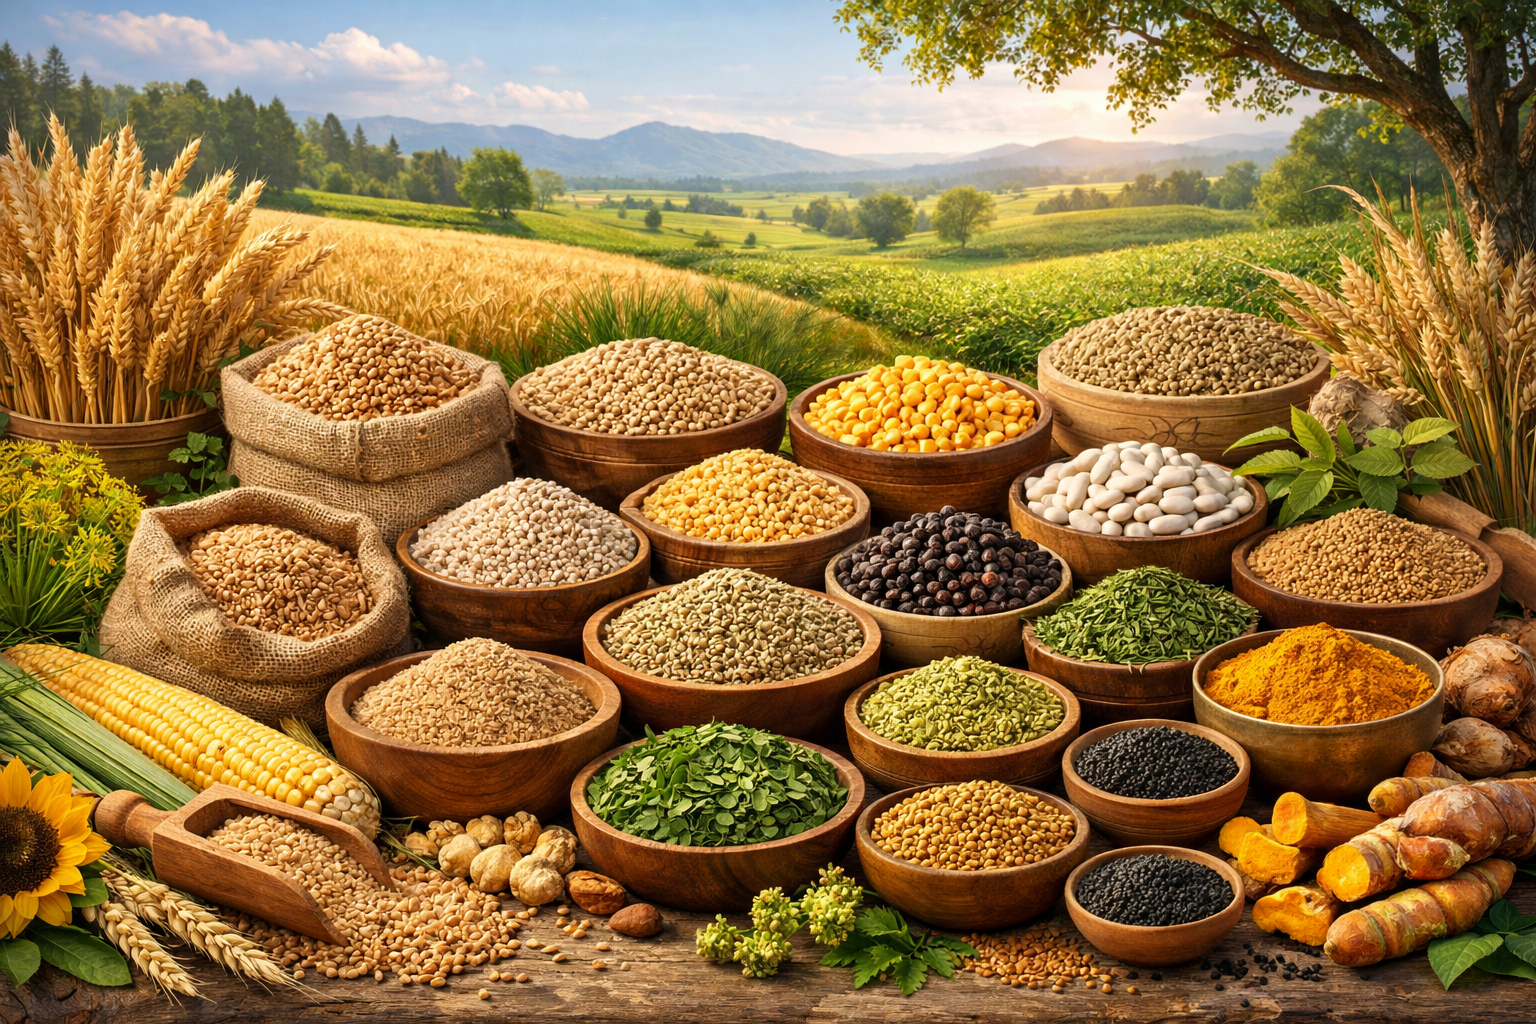
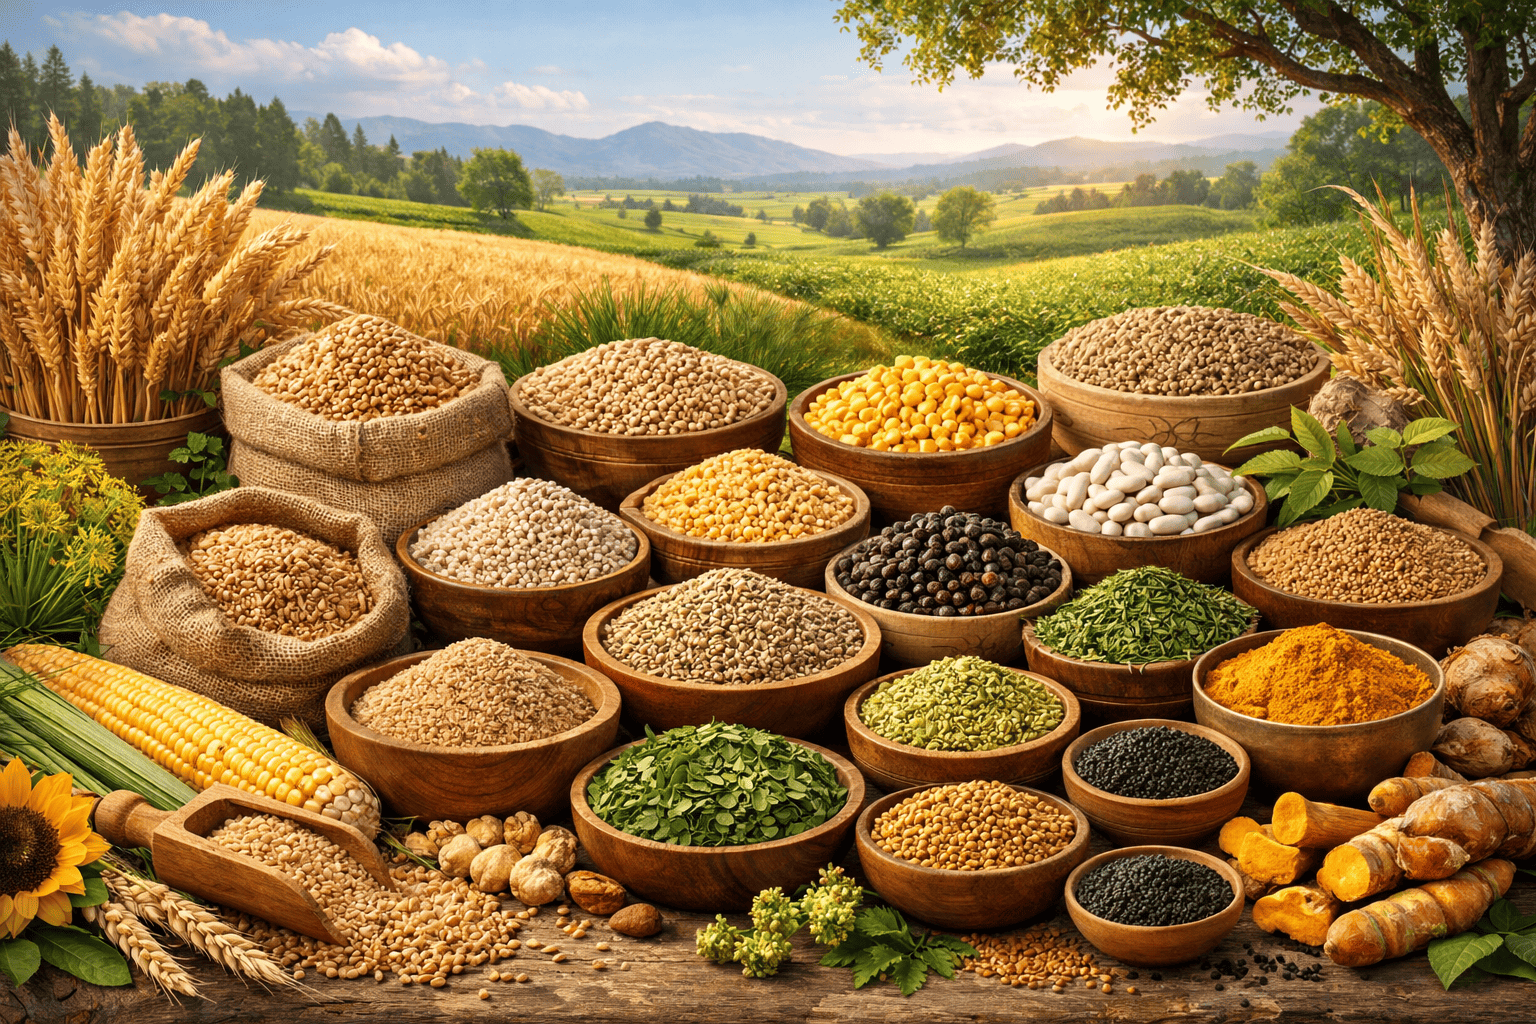
compressed imgaes

diff --git a/styles/pages/home.css b/styles/pages/home.css
@@ -19,7 +19,7 @@
     position: absolute;
     inset: 0;
     z-index: -1;
-    background-image: url('../../assets/home/white.png');
+    background-image: url('../../assets/home/white.jpg');
     background-size: cover;
     background-position: center;
     animation: kenBurns 20s infinite alternate linear;
